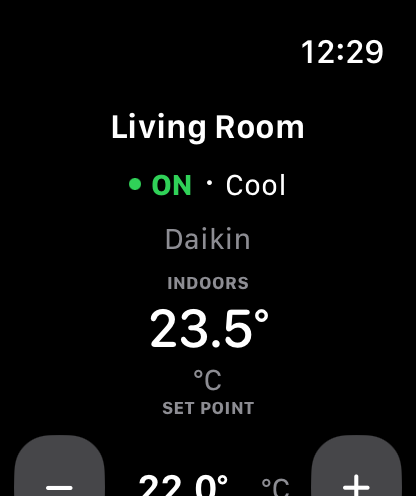
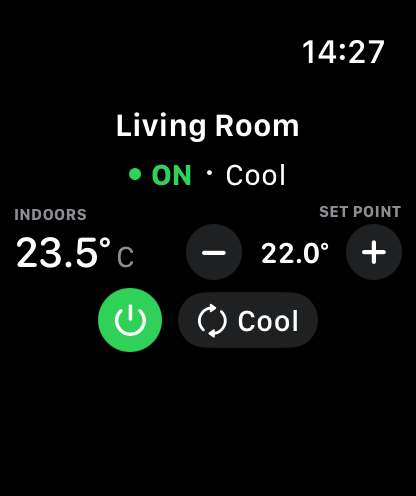
Refresh Watch preview screenshot

diff --git a/KlimatWatch/WatchApp/KlimatWatchApp.swift b/KlimatWatch/WatchApp/KlimatWatchApp.swift
@@ -74,6 +74,9 @@ private final class WatchConnectivityModel: NSObject, ObservableObject, WCSessio
     @Published private(set) var message: String?
 
     private let session = WCSession.default
+#if DEBUG
+    private var isPreview = false
+#endif
 
     override init() {
         super.init()
@@ -82,6 +85,7 @@ private final class WatchConnectivityModel: NSObject, ObservableObject, WCSessio
             devices = [.preview]
             selectedID = "preview-daikin"
             isPhoneReachable = true
+            isPreview = true
             return
         }
 #endif
@@ -137,6 +141,9 @@ private final class WatchConnectivityModel: NSObject, ObservableObject, WCSessio
     }
 
     private func send(_ message: [String: Any]) {
+#if DEBUG
+        if isPreview { return }
+#endif
         guard session.activationState == .activated, session.isReachable else {
             isPhoneReachable = false
             self.message = String(localized: "Connection unavailable")

diff --git a/store-listings/screenshots/README.md b/store-listings/screenshots/README.md
@@ -8,4 +8,4 @@ These screenshots were captured from Klimat running in the iPhone 18 Pro simulat
 Both files were uploaded to the English (U.S.) iPhone screenshot set in App Store Connect. The build shown uses Klimat's English interface.
 
 
-`03-watch-control.png` is a capture from the Apple Watch Series 12 (46 mm) watchOS simulator. It shows the Klimat Watch control screen with sample data loaded by a Debug-only preview launch argument; it is a UI preview and does not demonstrate live AC hardware or Watch Connectivity.
+`03-watch-control.png` is the latest capture from the Apple Watch Series 12 (46 mm) watchOS simulator. It shows the Klimat Watch control screen with sample data loaded by the Debug-only `--klimat-watch-preview` launch argument; preview controls do not send commands and this image does not demonstrate live AC hardware or Watch Connectivity. The earlier screenshot remains in the App Store Connect version currently under review; this updated image is prepared for a later version.
